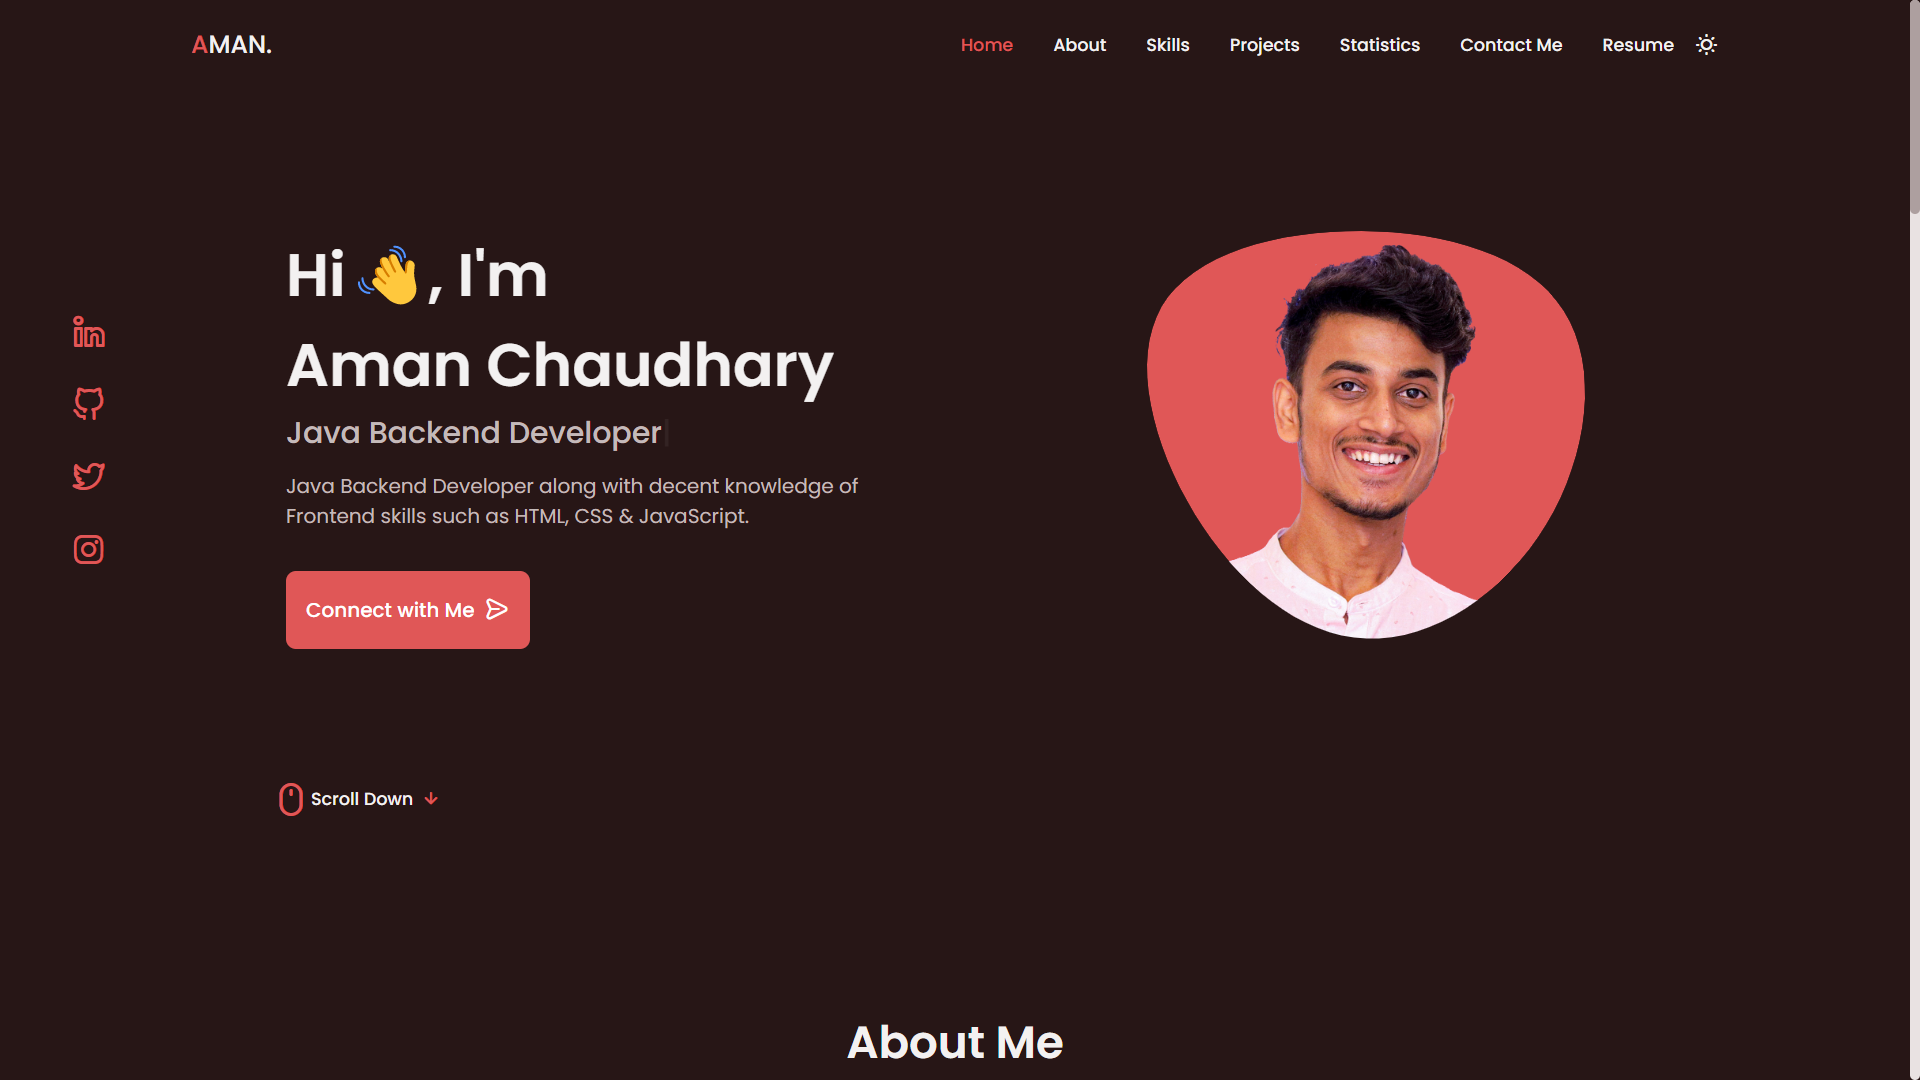
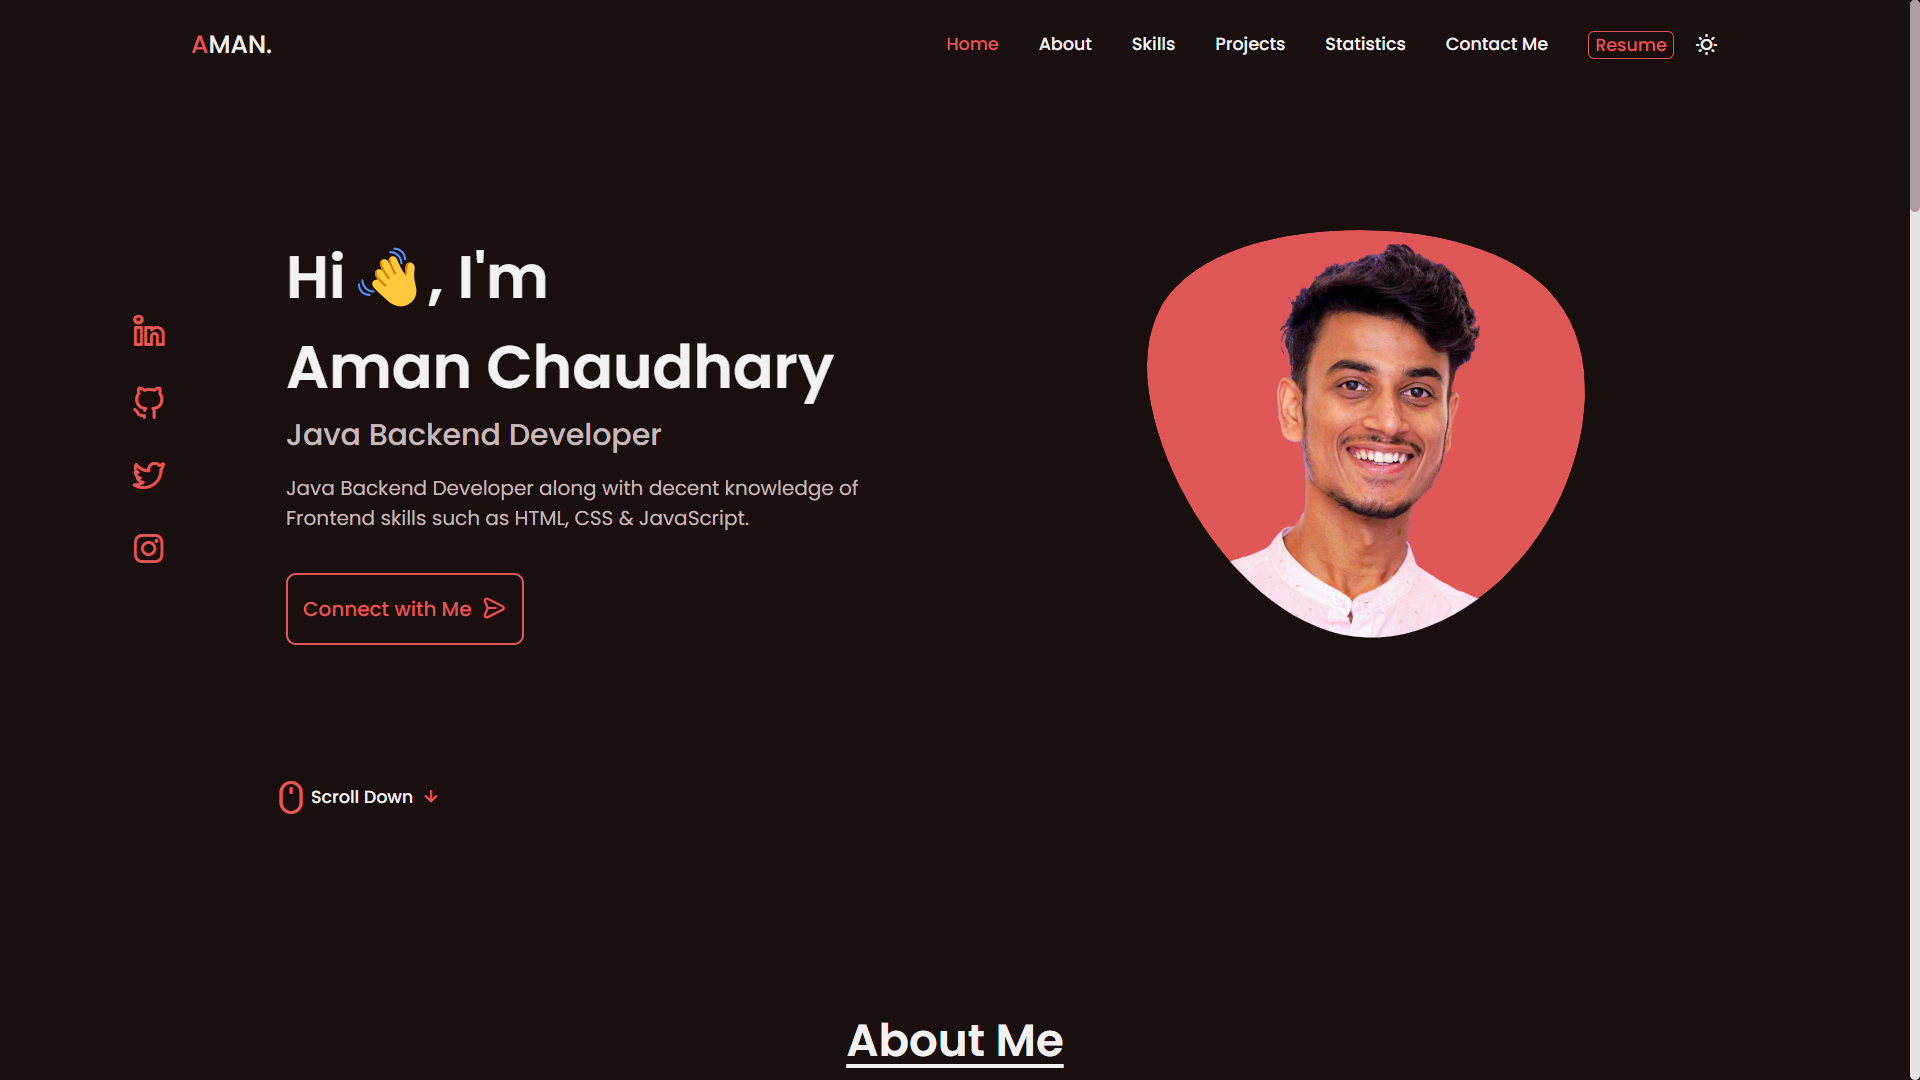
resume link updated

diff --git a/index.html b/index.html
@@ -52,7 +52,9 @@
                         </a>
                     </li>
                     <li class="nav_item">
-                        <a href="/images/Aman_Chaudhary_Resume.pdf" target="_blank" download class="nav_link resume">
+                        <a href="images/Aman_Chaudhary_Resume.pdf"
+                            onclick="window.open('images/Aman_Chaudhary_Resume.pdf')" target="_blank" download
+                            class="nav_link resume">
                             <i class="uil uil-download-alt nav_icon"></i> Resume
                         </a>
                     </li>
@@ -118,11 +120,11 @@
                         <p class="home_description">Java Backend Developer along with decent knowledge of Frontend
                             skills such as HTML, CSS & JavaScript.</p>
                         <div class="btn_container">
-                            <a href="/images/Aman_Chaudhary_Resume.pdf" target="_blank" class="button button-flex">
+                            <!-- <a href="/images/Aman_Chaudhary_Resume.pdf" target="_blank" class="button button-flex">
                                 My Resume <i class="uil uil-download-alt button_icon"></i>
-                            </a>
+                            </a> -->
                             <a href="#contact" class="button button-flex sec_button">
-                                Contact Me <i class="uil uil-message button_icon"></i>
+                                Connect with Me <i class="uil uil-message button_icon"></i>
                             </a>
                         </div>
                     </div>
@@ -166,8 +168,11 @@
                     </div>
 
                     <div class="about_buttons">
-                        <a href="/images/Aman_Chaudhary_Resume.pdf" download="" class="button button-flex">
-                            My Resume <i class="uil uil-download-alt button_icon"></i></a>
+                        <a href="/images/Aman_Chaudhary_Resume.pdf"
+                            onclick="window.open('images/Aman_Chaudhary_Resume.pdf')" download
+                            class="button button-flex">
+                            My Resume <i class="uil uil-download-alt button_icon"></i>
+                        </a>
                     </div>
                 </div>
             </div>
@@ -595,15 +600,15 @@
             <div class="statistics_container container grid">
                 <img id="github-stats-card"
                     src="https://github-readme-stats.vercel.app/api?username=AmanChaudhary214&theme=default&hide_border=false&include_all_commits=true&count_private=true"
-                    alt="">
+                    alt="github-readme-stats">
                 <img id="github-top-langs"
                     src="https://github-readme-stats.vercel.app/api/top-langs/?username=AmanChaudhary214&theme=default&hide_border=false&include_all_commits=true&count_private=true&layout=compact"
-                    alt="">
+                    alt="github-top-langs">
                 <img id="github-streak-stats"
                     src="https://github-readme-streak-stats.herokuapp.com/?user=AmanChaudhary214&theme=default&hide_border=false"
-                    alt="">
+                    alt="github-streak-stats">
             </div>
-            <!-- <div class="react-github-calendar"></div> -->
+            <!-- <div class="calendar react-activity-calendar tilt" id="calender"></div> -->
         </section>
 
         <!-- ========== Contact ========== -->
@@ -669,14 +674,6 @@
                 </form>
             </div>
         </section>
-
-        <!-- ==================== VISIT COUNTER ==================== -->
-        <!-- <div class="counter">
-            <script type="text/javascript" src="https://freehitcounters.org/count/c88m"></script><br>
-            <a href='https://www.versicherungen.at/'>Versicherungsvergleich</a>
-            <script type='text/javascript'
-                src='https://whomania.com/ctr?id=a710b23f5643d4b11b4b97828989f5d1b11eded5'></script>
-        </div> -->
 
     </main>
 
@@ -762,4 +759,4 @@
 
 </body>
 
-</html>`
+</html>

diff --git a/css/style.css b/css/style.css
@@ -196,7 +196,7 @@ img {
 }
 
 .sec_button {
-    background-color: #fff;
+    background-color: var(--body-color);
     border: 2px solid var(--first-color);
     color: var(--first-color);
 }
@@ -769,6 +769,8 @@ img {
 .statistics_container img {
     width: 400px;
     transition: 0.5s;
+    border-radius: 6px;
+    box-shadow: rgba(100, 100, 111, 0.2) 0px 7px 29px 0px;
 }
 
 .statistics_container img:hover {
@@ -831,7 +833,7 @@ img {
 
 /* ====== FOOTER ====== */
 .footer {
-    padding-top: 2rem;
+    padding-top: 3rem;
     text-align: center;
 }
 
@@ -842,6 +844,12 @@ img {
 .footer_bg {
     background-color: var(--first-color-second);
     padding: 2rem 0 3rem;
+}
+
+.footer_title,
+.footer_subtitle,
+.footer_social {
+    color: #fff;
 }
 
 .footer_title {
@@ -856,10 +864,11 @@ img {
 .footer_social {
     font-size: 1.25rem;
     margin: var(--mb-1);
+    transition: 0.5s;
 }
 
 .footer_social:hover {
-    color: var(--first-color-lighter);
+    color: var(--first-color-alt);
 }
 
 .footer_copy {
@@ -871,12 +880,6 @@ img {
 
 .footer_copy a {
     text-decoration: none;
-    color: #fff;
-}
-
-.footer_title,
-.footer_subtitle,
-.footer_social {
     color: #fff;
 }
 
@@ -920,12 +923,6 @@ img {
 
 ::-webkit-scrollbar-thumb {
     background-color: var(--text-color-light);
-}
-
-.counter {
-    display: flex;
-    justify-content: right;
-    margin-right: 60px;
 }
 
 
